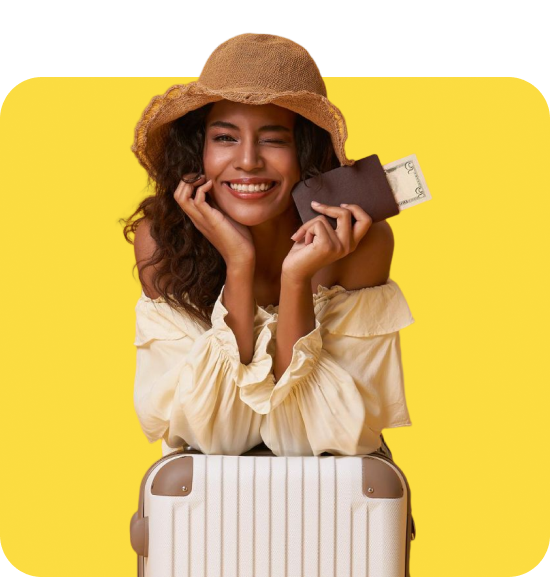
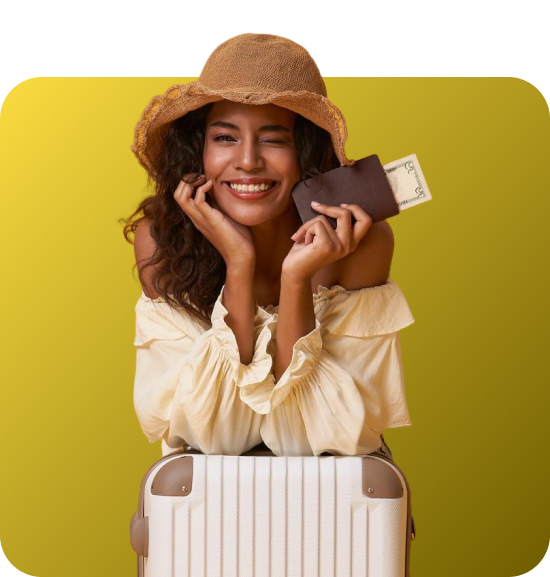
slider

diff --git a/src/components/OurServices/index.tsx b/src/components/OurServices/index.tsx
@@ -61,7 +61,7 @@ export function OurServices() {
                 />
               </div>
               <Link href="/share">
-                <button className="whitespace-nowrap min-w-fit max-w-fit bg-blue-500 w-full text-white rounded-full px-6 py-3 text-xs md:text-base">
+                <button className="whitespace-nowrap min-w-fit max-w-fit button-blue-bg w-full text-white rounded-full px-6 py-3 text-xs md:text-base">
                   Share Your Plan
                 </button>
               </Link>
@@ -88,7 +88,7 @@ export function OurServices() {
             />
           </div>
           <Link href="/share">
-            <button className="whitespace-nowrap ml-4 min-w-fit max-w-fit bg-blue-500 w-full text-white rounded-full px-6 py-3 text-xs md:text-base">
+            <button className="whitespace-nowrap ml-4 min-w-fit max-w-fit button-blue-bg w-full text-white rounded-full px-6 py-3 text-xs md:text-base">
               Share Plan
             </button>
           </Link>
@@ -148,7 +148,7 @@ export function OurServices() {
                 />
               </div>
               <Link href="/plans">
-                <button className="whitespace-nowrap min-w-fit max-w-fit bg-yellow-500 w-full text-gray-900 rounded-full px-6 py-3 text-xs md:text-base">
+                <button className="whitespace-nowrap min-w-fit max-w-fit bg-yellow-500 w-full text-gray-900 rounded-full px-6 py-3 text-xs md:text-base hover:brightness-90 transition-[filter]">
                   Find a Plan
                 </button>
               </Link>
@@ -175,7 +175,7 @@ export function OurServices() {
             />
           </div>
           <Link href="/plans">
-            <button className="whitespace-nowrap ml-4 min-w-fit max-w-fit bg-yellow-500 w-full text-gray-900 rounded-full px-6 py-3 text-xs md:text-base">
+            <button className="whitespace-nowrap ml-4 min-w-fit max-w-fit bg-yellow-500 w-full text-gray-900 rounded-full px-6 py-3 text-xs md:text-base hover:brightness-90 transition-[filter]">
               Find Plan
             </button>
           </Link>

diff --git a/src/components/PopularPlansSlider/index.tsx b/src/components/PopularPlansSlider/index.tsx
@@ -1,6 +1,7 @@
 import { GetPlansQuery } from "@/generated/graphql";
 import { motion, useDragControls } from "framer-motion";
 import Image from "next/image";
+import Link from "next/link";
 import { useRouter } from "next/router";
 import { useEffect, useRef, useState } from "react";
 
@@ -23,6 +24,11 @@ export function PopularPlansSlide({ data }: PopularPlansSlideProps) {
   }, []);
 
   const controls = useDragControls();
+
+  const handleClick = (event: any) => {
+    console.log(event.movementX + 20);
+    // controls.start(event);
+  };
 
   return (
     <motion.section
@@ -52,7 +58,6 @@ export function PopularPlansSlide({ data }: PopularPlansSlideProps) {
             <div
               className="w-72 h-fit relative border-2 border-transparent bg-gray-260 dark:bg-transparent dark:border-blue-500 rounded-3xl p-4"
               key={index}
-              // onClick={() => router.push(`/plans/${plan.id}`)}
             >
               <div className="w-full h-[250px]">
                 <Image
@@ -71,7 +76,6 @@ export function PopularPlansSlide({ data }: PopularPlansSlideProps) {
                 </span>
                 <strong className="dark:text-white text-black text-xl max-w-[190px] truncate">
                   {plan.name ? plan.name : plan.location[0].country}
-                  sdfsdfsdfsdfsdfsdff
                 </strong>
                 <p className="max-w-[190px] dark:text-gray-450 text-gray-700 text-sm font-semibold">
                   the trip plan is estimated to cost around{" "}
@@ -87,6 +91,14 @@ export function PopularPlansSlide({ data }: PopularPlansSlideProps) {
           ))}
         </motion.div>
       </div>
+      <Link
+        href="/plans"
+        className="w-full flex items-center justify-center mt-20"
+      >
+        <button className="button-blue-bg px-6 py-2 rounded-full text-white">
+          All Plans
+        </button>
+      </Link>
     </motion.section>
   );
 }

diff --git a/src/components/Navbar/Header/HeaderText.tsx b/src/components/Navbar/Header/HeaderText.tsx
@@ -22,7 +22,7 @@ export function HeaderText() {
           Explore your dream destinations and take a break from the everyday
           stress. Share and discover travel plans with our community.
         </p>
-        <button className="button-blue-bg rounded px-4 py-2 text-white mt-16">
+        <button className="button-blue-bg rounded-full px-6 py-2 text-white mt-16">
           Get started
         </button>
       </motion.div>

diff --git a/src/styles/globals.css b/src/styles/globals.css
@@ -25,6 +25,14 @@ body {
 .button-blue-bg {
   @apply bg-gradient-to-r from-blue-500 via-blue-500 to-[#083F92] hover:opacity-80 transition-opacity;
 }
+.button-yellow-bg {
+  background: linear-gradient(
+    135deg,
+    #fbdc41 0%,
+    #fbdc41 0.01%,
+    #705d00 98.73%
+  );
+}
 
 .blue-bg-500 {
   @apply bg-gradient-to-r from-blue-500 via-blue-500 to-[#083F92];
